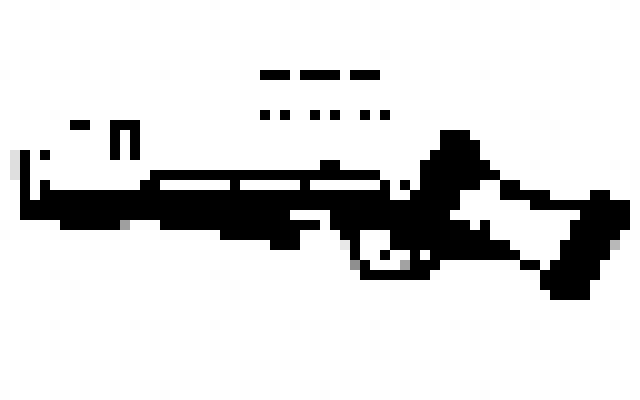
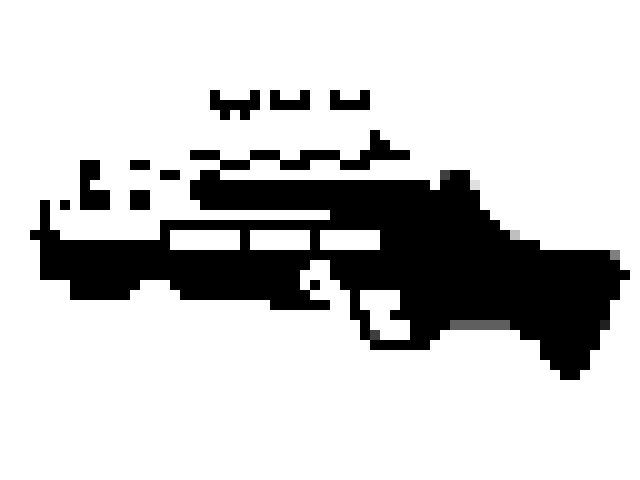
2.3.0a

diff --git a/index.html b/index.html
@@ -183,6 +183,8 @@
 								<li class="nav-item"><a class="nav-link" href="#weapon_range">Range Weapon</a></li>
             					<li class="nav-item"><a class="nav-link" href="#weapon_melle">Melle Weapon</a></li>
             					<li class="nav-item"><a class="nav-link" href="#weapon_throwable">Throwable Weapon</a></li>
+            					<li class="nav-item"><a class="nav-link" href="#weapon_upgrade">Upgrade System</a></li>
+            					<li class="nav-item"><a class="nav-link" href="#weapon_skin">Skin System</a></li>
 							</ul>
 						</li>
 
@@ -286,6 +288,9 @@
 							<a class="nav-link" href="#tab_changelog">Changelog</a>
 							<ul class="nav flex-column">
 								<li class="nav-item">
+									<a class="nav-link" href="#v2-3-0a">v2.3.0a</a>
+								</li>
+								<li class="nav-item">
 									<a class="nav-link" href="#v2-2-0a">v2.2.0a</a>
 								</li>
 								<li class="nav-item">
@@ -352,15 +357,15 @@
 		============================ -->
 						<section id="tab_installation">
 							<h1>Documentation</h1>
-							<h2>Hellish Battle - 2.5D Retro FPS</h2>								<a class="popup-img" href="assets/images/Cover.png"
-									><img class="img-fluid border" src="assets/images/Cover.png" alt=""
+							<h2>Hellish Battle - 2.5D Retro FPS</h2>								<a class="popup-img" href="assets/images/Cover.webp"
+									><img class="img-fluid border" src="assets/images/Cover.webp" alt=""
 								/></a>
 							<!--<a class="btn btn-primary" href="https://blyattukan.github.io/hellish-battle-documentation/"><i class="fas fa-external-link-alt mr-1"></i> Online Documentation</a>-->
 							<hr />
 							<div class="row">
 								<div class="col-sm-6 col-lg-4">
 									<ul class="list-unstyled">
-										<li><strong>Version:</strong> 2.2.0a</li>
+										<li><strong>Version:</strong> 2.3.0a</li>
 										<li>
 											<strong>Author:</strong>
 											<a href="https://assetstore.unity.com/publishers/63085" target="_blank">Tiny Slime Studio</a>
@@ -373,13 +378,13 @@
 											<strong class="font-weight-700">Created:</strong>
 											22 April, 2022
 										</li>
-										<li><strong>Update:</strong> 15 Sep, 2023</li>
+										<li><strong>Update:</strong> 11 Dec, 2023</li>
 									</ul>
 								</div>
 
 								<div class="col-sm-6 col-lg-4">
 									<ul class="list-unstyled">
-										<li><strong>File Size:</strong> 85.4 MB</li>
+										<li><strong>File Size:</strong> 97.23 MB</li>
 										<li>
 											<strong>Unity Versions:</strong>
 											2021.3.17+
@@ -856,73 +861,104 @@
 								<div class="col-4 my-3 text-center">
 									<a>
 										<img class="img-fluid border" src="assets/images/_weapon/Pistol_UI.png" alt="" />
+										<span class="badge badge-green">Hitscan Pistol</span>
 										<h6 class="pt-2">HB27</h6>
 									</a>
 								</div>
 								<div class="col-4 my-3 text-center">
 									<a>
 										<img class="img-fluid border" src="assets/images/_weapon/GrenadeLancher_UI.png" alt="" />
+										<span class="badge badge-green">Projectile Launcher</span>
 										<h6 class="pt-2">RK 800</h6>
 									</a>
 								</div>
 								<div class="col-4 my-3 text-center">
 									<a>
 										<img class="img-fluid border" src="assets/images/_weapon/RocketLancher_UI.png" alt="" />
+										<span class="badge badge-green">Projectile Launcher</span>
 										<h6 class="pt-2">Red Death</h6>
 									</a>
 								</div>
 								<div class="col-4 my-3 text-center">
 									<a>
 										<img class="img-fluid border" src="assets/images/_weapon/Infinity_Pistol_UI.png" alt="" />
+										<span class="badge badge-green">Hitscan Pistol</span>
 										<h6 class="pt-2">Demon Pistol</h6>
 									</a>
 								</div>
 								<div class="col-4 my-3 text-center">
 									<a>
 										<img class="img-fluid border" src="assets/images/_weapon/Rifle_UI.png" alt="" />
+										<span class="badge badge-green">Hitscan Rifle</span>
 										<h6 class="pt-2">HK - S28</h6>
 									</a>
 								</div>
 								<div class="col-4 my-3 text-center">
 									<a>
 										<img class="img-fluid border" src="assets/images/_weapon/Burst_Gun_UI.png" alt="" />
+										<span class="badge badge-green">Hitscan Rifle</span>
 										<h6 class="pt-2">Python</h6>
 									</a>
 								</div>
 								<div class="col-4 my-3 text-center">
 									<a>
 										<img class="img-fluid border" src="assets/images/_weapon/Sniper_UI.png" alt="" />
+										<span class="badge badge-green">Projectile Sniper</span>
+										<span class="badge badge-yellow">New Sprite Soon</span>
 										<h6 class="pt-2">Eagle Eye</h6>
 									</a>
 								</div>
 								<div class="col-4 my-3 text-center">
 									<a>
 										<img class="img-fluid border" src="assets/images/_weapon/DoubleBarrel_UI.png" alt="" />
+										<span class="badge badge-green">Hitscan Shotgun</span>
 										<h6 class="pt-2">DX-32a</h6>
 									</a>
 								</div>
 								<div class="col-4 my-3 text-center">
 									<a>
 										<img class="img-fluid border" src="assets/images/_weapon/Shotgun_UI.png" alt="" />
+										<span class="badge badge-green">Projectile Shotgun</span>
 										<h6 class="pt-2">Justice</h6>
 									</a>
 								</div>
 								<div class="col-4 my-3 text-center">
 									<a>
 										<img class="img-fluid border" src="assets/images/_weapon/Dual_Revolver_UI.png" alt="" />
+										<span class="badge badge-green">Hitscan Revolver</span>
+										<span class="badge badge-yellow">New Sprite Soon</span>
 										<h6 class="pt-2">Dual Revolver</h6>
 									</a>
 								</div>
 								<div class="col-4 my-3 text-center">
 									<a>
 										<img class="img-fluid border" src="assets/images/_weapon/Charge_Gun_UI.png" alt="" />
+										<span class="badge badge-green">Projectile Special</span>
+										<span class="badge badge-yellow">New Sprite Soon</span>
 										<h6 class="pt-2">Ka-Boom 3000</h6>
 									</a>
 								</div>
 								<div class="col-4 my-3 text-center">
 									<a>
 										<img class="img-fluid border" src="assets/images/_weapon/Laser_Gun_UI.png" alt="" />
+										<span class="badge badge-green">Hitscan Laser</span>
 										<h6 class="pt-2">B.O.B.</h6>
+									</a>
+								</div>
+								<div class="col-4 my-3 text-center">
+									<a>
+										<img class="img-fluid border" src="assets/images/_weapon/Minigun_UI.png" alt="" />
+										<span class="badge badge-red">New</span>
+										<span class="badge badge-green">Hitscan LKM</span>
+										<h6 class="pt-2">Minigun_UI</h6>
+									</a>
+								</div>
+								<div class="col-4 my-3 text-center">
+									<a>
+										<img class="img-fluid border" src="assets/images/_weapon/Bow_UI.png" alt="" />
+										<span class="badge badge-red">New</span>
+										<span class="badge badge-green">Projectile Bow</span>
+										<h6 class="pt-2">Codename: Bow</h6>
 									</a>
 								</div>
 							</div>
@@ -932,12 +968,16 @@
 								<div class="col-4 my-3 text-center">
 									<a>
 										<img class="img-fluid border" src="assets/images/_weapon/Axe_UI.png" alt="" />
+										<span class="badge badge-green">Axe | Block</span>
+										<span class="badge badge-yellow">New Sprite Soon</span>
 										<h6 class="pt-2">Axe</h6>
 									</a>
 								</div>
 								<div class="col-4 my-3 text-center">
 									<a>
 										<img class="img-fluid border" src="assets/images/_weapon/HuntingKnife_UI.png" alt="" />
+										<span class="badge badge-green">Knife | Alt Attack</span>
+										<span class="badge badge-yellow">New Sprite Soon</span>
 										<h6 class="pt-2">Hunting Knife</h6>
 									</a>
 								</div>
@@ -948,12 +988,56 @@
 								<div class="col-4 my-3 text-center">
 									<a>
 										<img class="img-fluid border" src="assets/images/_weapon/Hand_Grenade_UI.png" alt="" />
+										<span class="badge badge-green">Grenade | Explosion</span>
 										<h6 class="pt-2">Grenate</h6>
+									</a>
+								</div>
+								<div class="col-4 my-3 text-center">
+									<a>
+										<img class="img-fluid border" src="assets/images/_weapon/Molotov_UI.png" alt="" />
+										<span class="badge badge-red">New</span>
+										<span class="badge badge-green">Knife | Hit</span>
+										<h6 class="pt-2">Molotov</h6>
+									</a>
+								</div>
+								<div class="col-4 my-3 text-center">
+									<a>
+										<img class="img-fluid border" src="assets/images/_weapon/Kunai_UI.png" alt="" />
+										<span class="badge badge-red">New</span>
+										<span class="badge badge-green">Grenade | Damage Zone</span>
+										<h6 class="pt-2">Kunai</h6>
 									</a>
 								</div>
 							</div>
 						</section>
 						
+						<hr class="divider" />
+
+						<section id="weapon_upgrade">
+    <h2>Upgrade System</h2>
+    <div class="alert alert-info">
+        <span class="badge badge-red text-uppercase">Note:</span>
+        At this moment, upgrades do not have stat modification. This option will be available in version 2.3.1a.
+    </div>
+    <div class="alert alert-info">
+        <span class="badge badge-red text-uppercase">Note:</span>
+        Documentation for the Upgrade System will be provided with the 2.3.1a update to avoid confusion for those reading documentation for version 2.3.0a. In the next release, a significant portion of this system may change.
+    </div>
+    <p>The Upgrade System allows the creation of enhancements for weapons that can be obtained using points earned during gameplay. It enables the modification of weapon statistics and the alteration of the weapon's appearance (if no skin is selected).</p>
+</section>
+
+<hr class="divider" />
+
+<section id="weapon_skin">
+    <h2>Skin System</h2>
+    <div class="alert alert-info">
+        <span class="badge badge-red text-uppercase">Note:</span>
+        Documentation for the Skin System will be provided with the 2.3.1a update to avoid confusion for those reading documentation for version 2.3.0a. In the next release, a significant portion of this system may change.
+    </div>
+    <p>The Skin System allows you to choose the appearance for your weapon that you like the most and transform the mundane default look into something extraordinary. Skins can be purchased using points collected during gameplay.</p>
+</section>
+
+
 						<hr class="divider" />
 
 						<section id="tab_inventory">
@@ -1676,6 +1760,39 @@ The number of available slots can be changed under <code>Project Settings -> Hel
 								Do you want to check what will be in the next update? check it out for the always up-to-date roadmap:
 								<a target="_blank" href="https://trello.com/b/LLsG1tUJ/hellish-battle-25d-retro-fps-game-template">Trello</a>
 							</p>
+
+							<h3 id="v2-3-0a">
+								Version 2.3.0a
+								<small class="text-muted">11 December, 2023</small>
+							</h3>	
+							<ul class="changelog">
+								<li> <span class="badge badge-green">Added</span>
+								Weapon Inspection </li>
+								<li> <span class="badge badge-green">Added</span>
+								Weapon Speed Reduction </li>
+								<li> <span class="badge badge-green">Added</span>
+								Range Firerate Curve </li>
+								<li> <span class="badge badge-green">Added</span>
+								Bullet Force </li>
+								<li> <span class="badge badge-green">Added</span>
+								Skin System </li>
+								<li> <span class="badge badge-green">Added</span>
+								Upgrade System </li>
+								<li> <span class="badge badge-green">Added</span>
+								4 New Weapon (Bow, Minigun, Molotov, Kunai) </li>
+								<li> <span class="badge badge-green">Added</span>
+								2 Weapon Upgrade (Preview Upgrade System) </li>
+								<li> <span class="badge badge-green">Added</span>
+								6 Weapon Skin </li>
+								<li> <span class="badge badge-yellow">Updated</span>
+								Improved Weapon Sprites </li>
+								<li> <span class="badge badge-yellow">Updated</span>
+								Improved Range Weapon Script </li>
+								<li> <span class="badge badge-yellow">Updated</span>
+								Improved Melle Weapon Script </li>
+								<li> <span class="badge badge-purple">Rework</span>
+								Rework Throwable Weapon Script </li>
+							</ul>
 
 							<h3 id="v2-2-0a">
 								Version 2.2.0a
